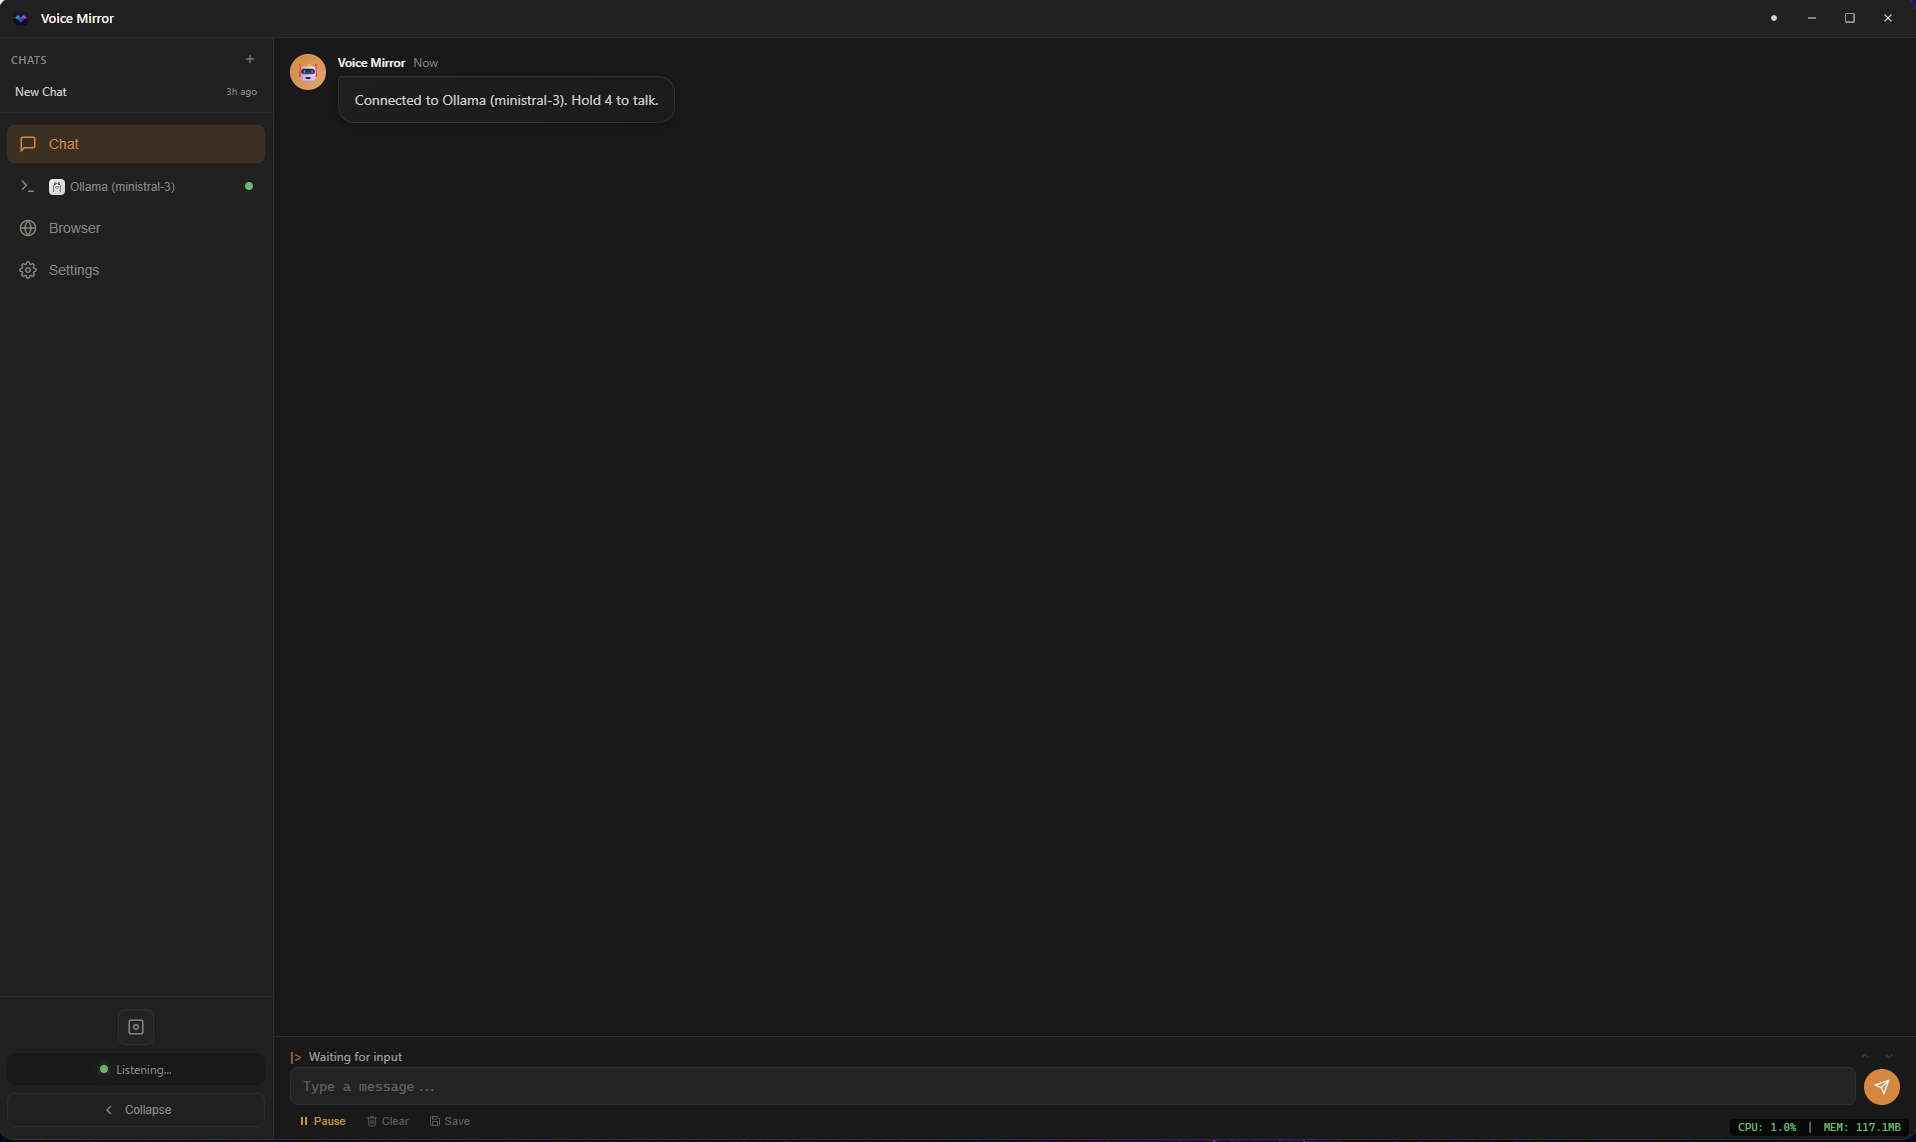
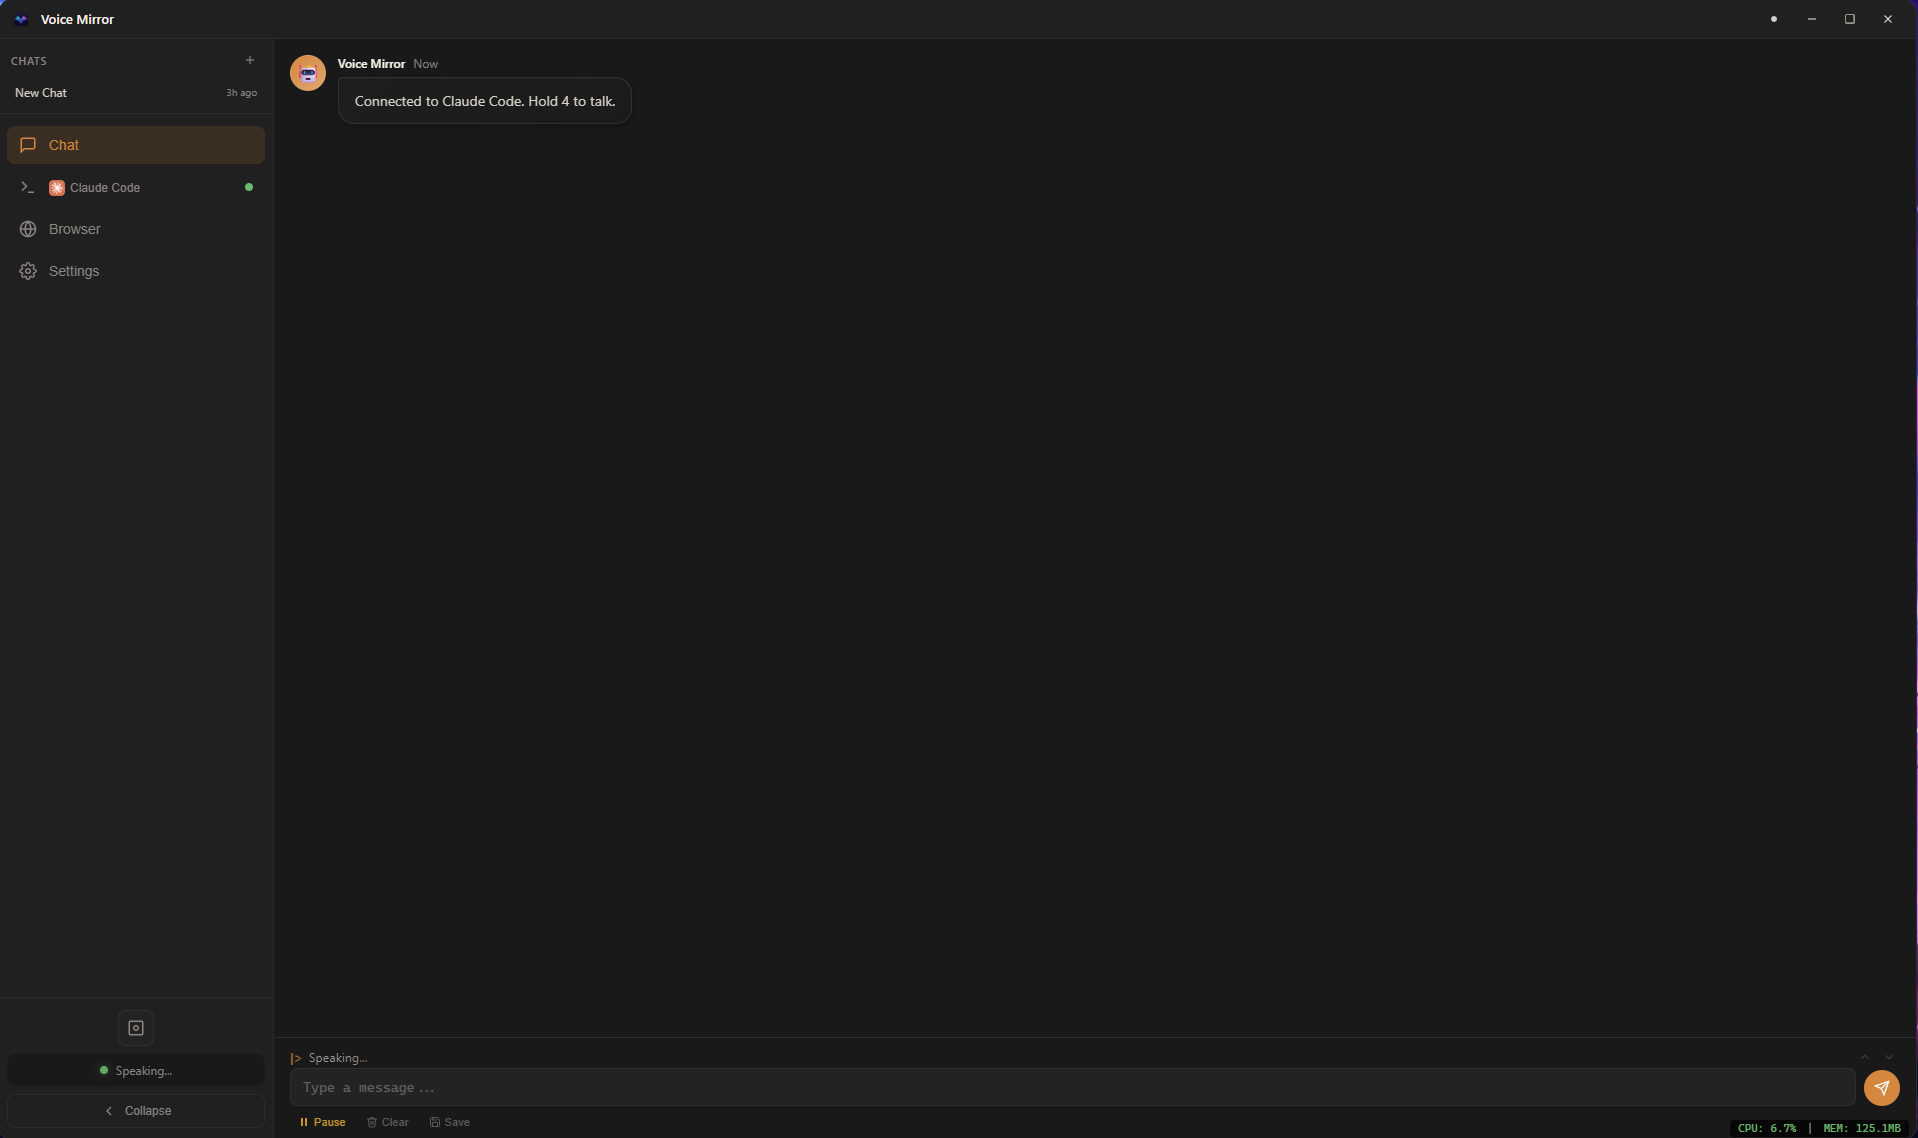
docs: update dashboard screenshot to show Claude Code provider

diff --git a/README.md b/README.md
@@ -37,7 +37,7 @@
 > **Alpha Release** — Voice Mirror is in active development. Core features work and are tested across all platforms, but expect rough edges. Bug reports and feedback welcome via [GitHub Issues](https://github.com/contextmirror/voice-mirror-electron/issues) or [Discord](https://discord.com/invite/JBpsSFB7EQ).
 
 <p align="center">
-  <img src="assets/screenshots/dashboard.png?v=2" alt="Voice Mirror Dashboard" width="800">
+  <img src="assets/screenshots/dashboard.png?v=3" alt="Voice Mirror Dashboard" width="800">
 </p>
 
 <p align="center">
